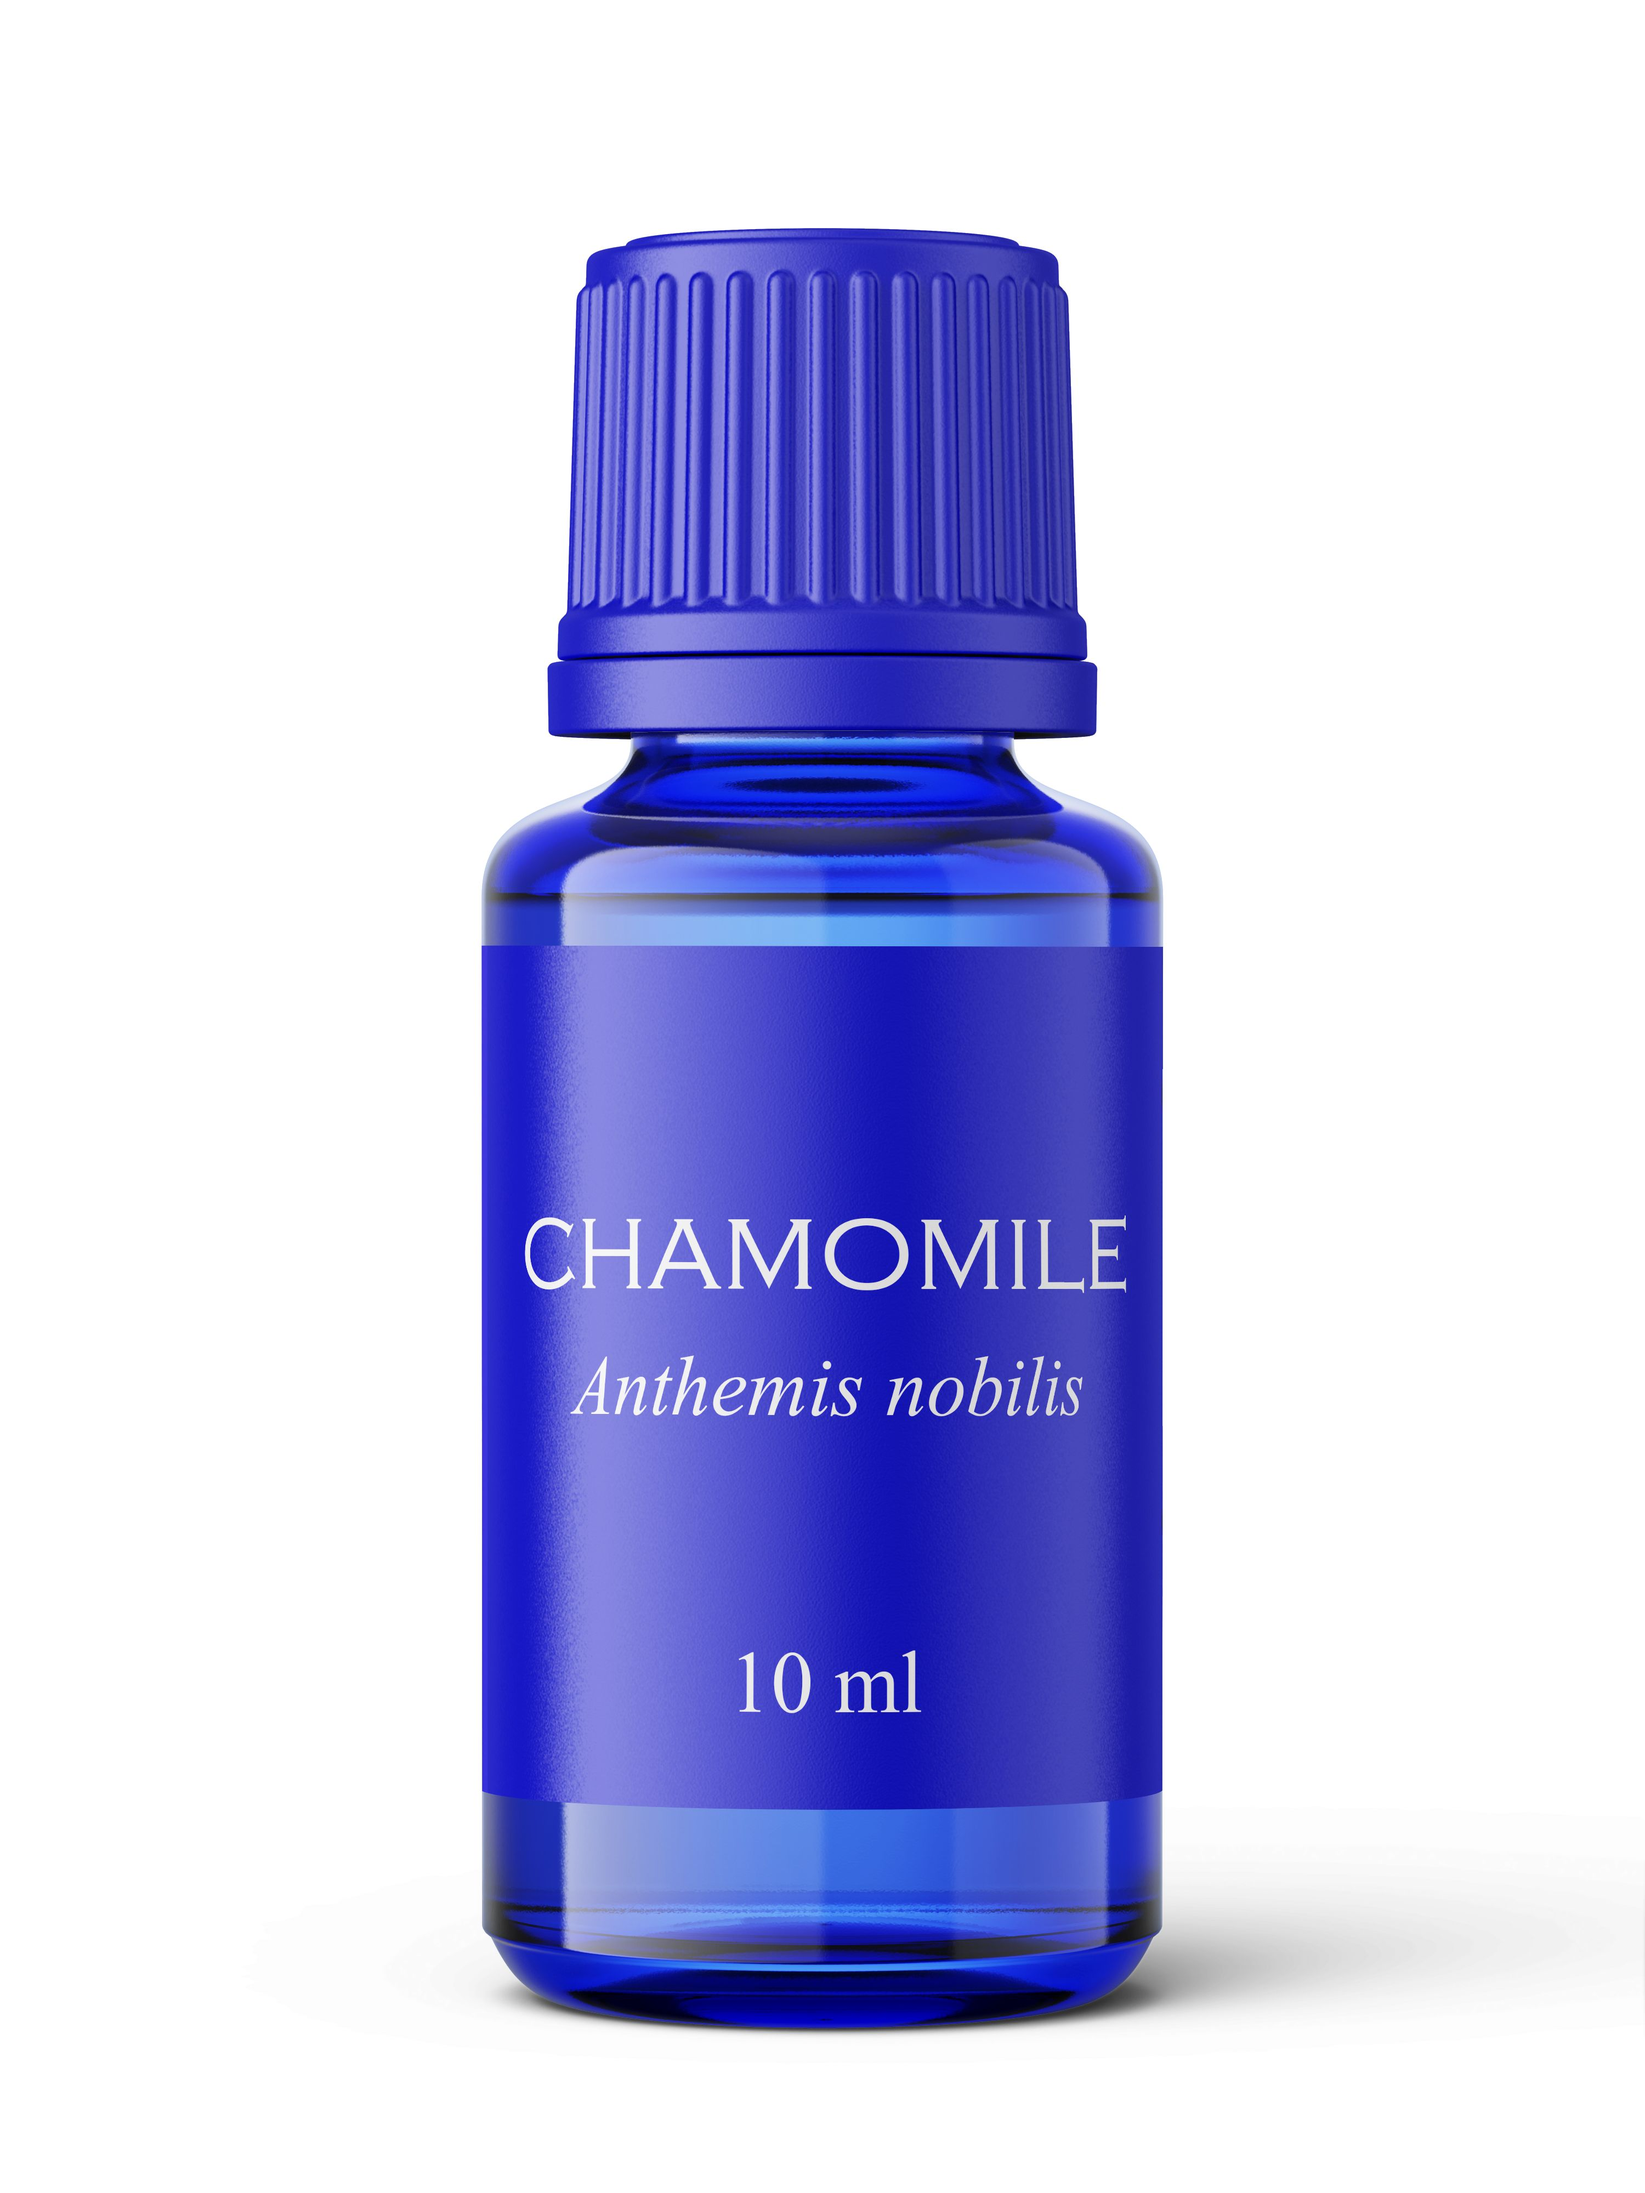
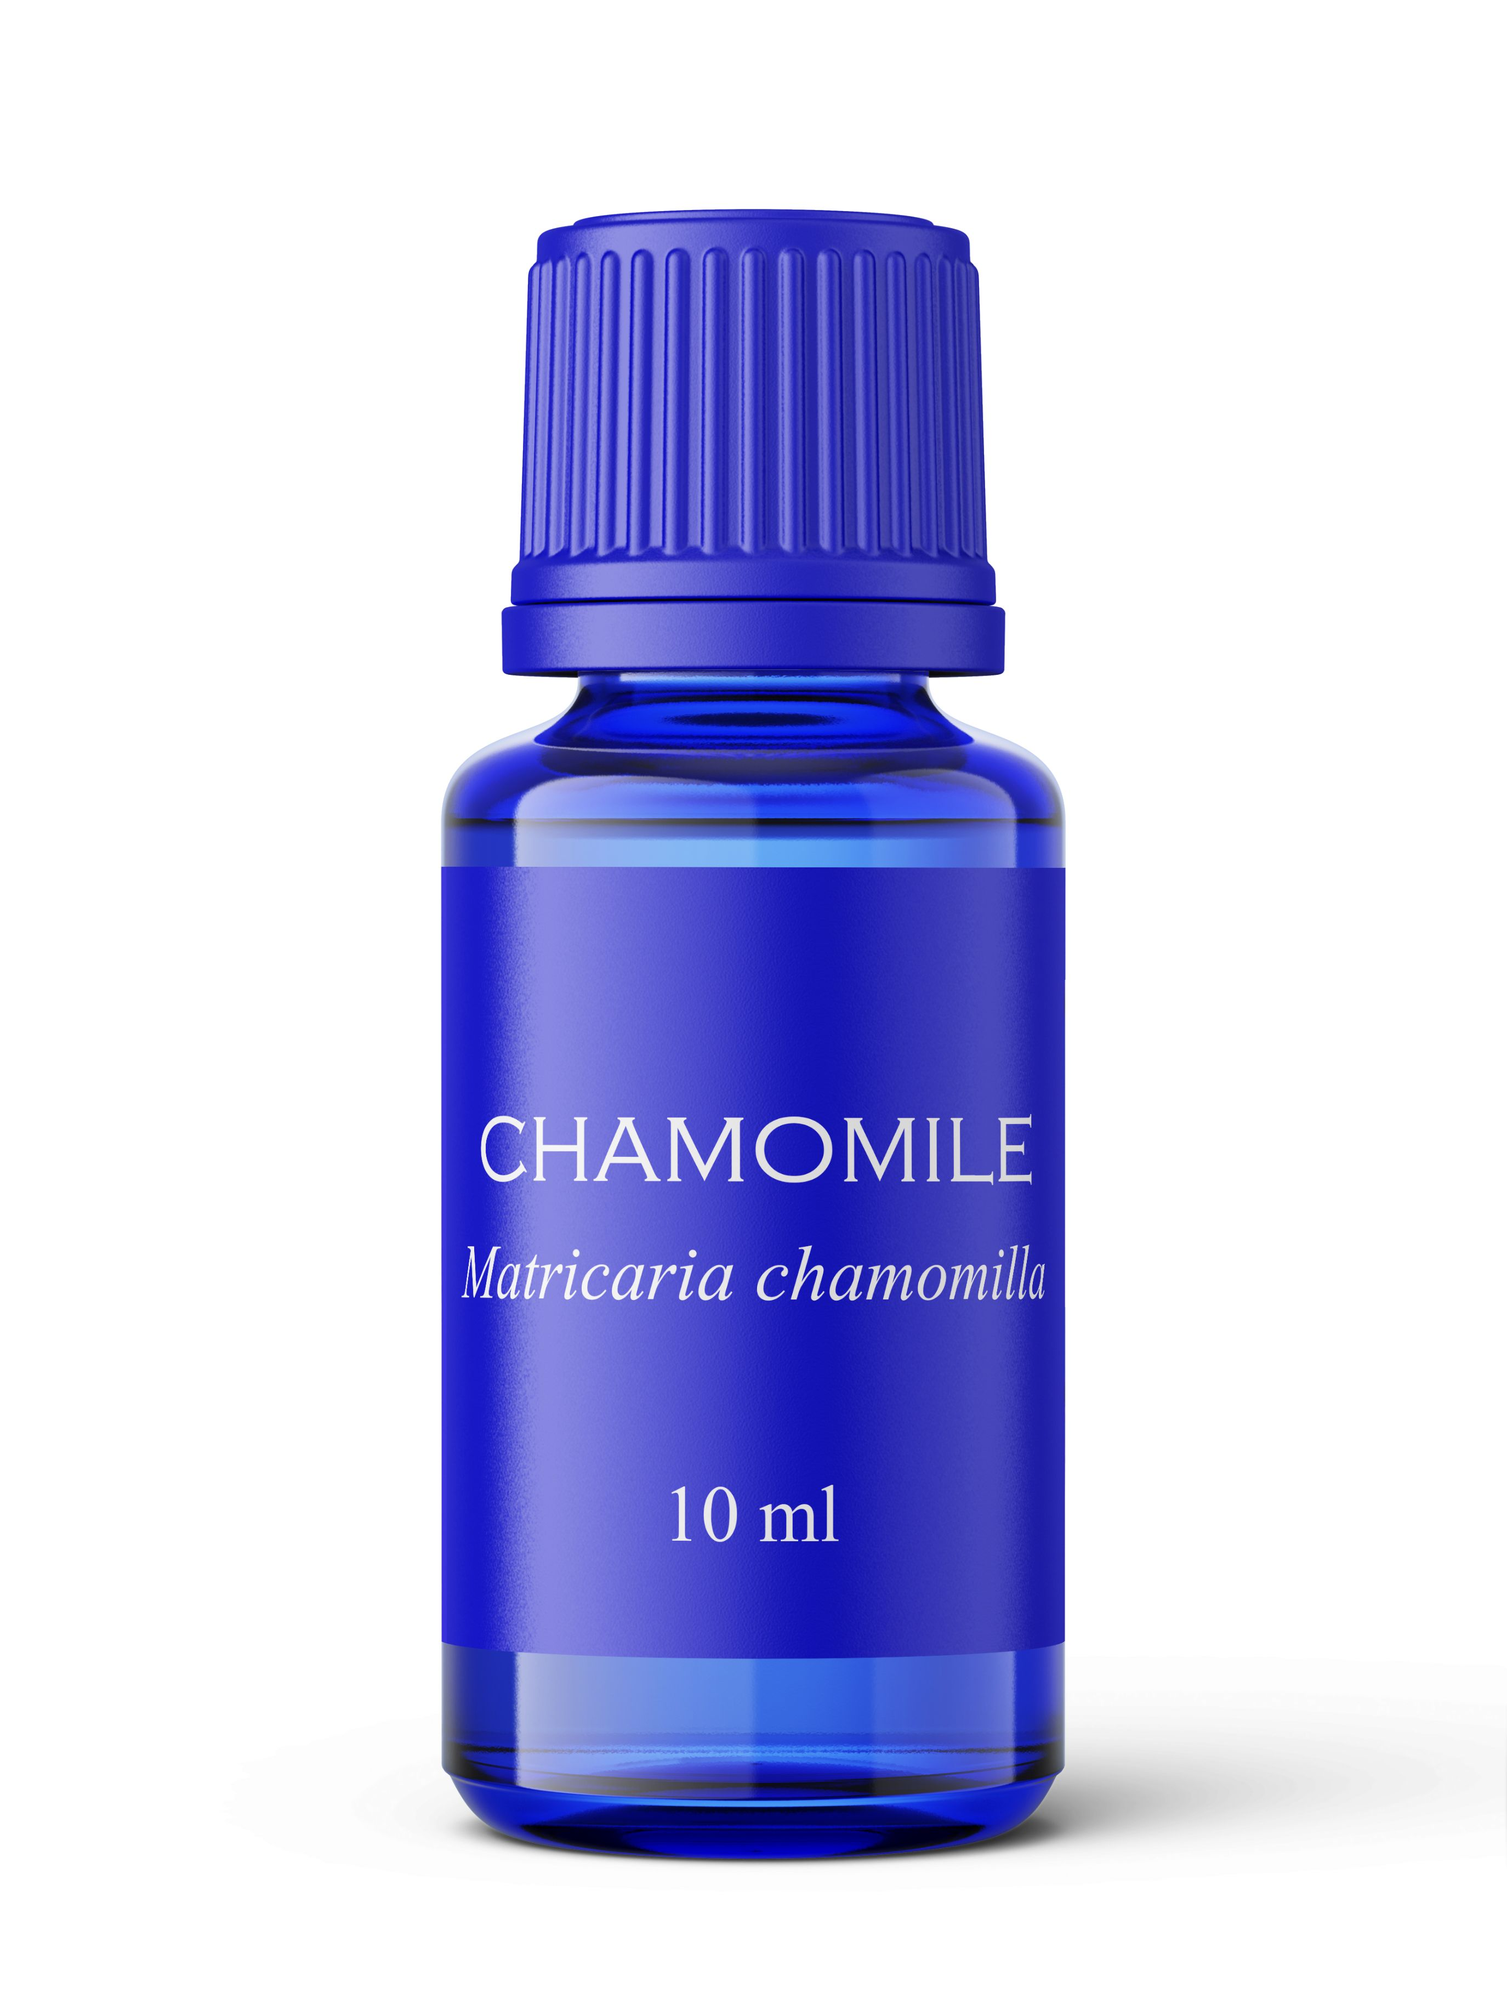
stuff

Changed region(s): [[0.3092, 0.6219, 0.7112, 0.653], [0.4329, 0.7463, 0.5566, 0.7774]]

diff --git a/airspace-hugo/layouts/_default/single.html b/airspace-hugo/layouts/_default/single.html
@@ -33,30 +33,40 @@
 					<div class="post-thumb">
 						<img class="img-responsive" src="{{ .Params.Image | relURL }}" alt="{{ .Title }}">
 					</div> -->
-					<div class="post-content post-excerpt">
-						{{ range .Params.Sections}}
-						<!-- {{ .Content }} -->
-						<div class="col-md-2">
-							<p style="margin: 0 0 10px;">{{ .key }}</p>
-						</div>
-						<div class="col-md-10">
-							{{ if .value }}
-								<p style="margin: 0 0 10px;">{{ .value }}</p>
-							{{ else if .list }}
-								<ul style="list-style: disc;">
-								{{ range .list }}
-									<li style="font-size: 14px;color:#7b7b7b">{{ .value }}</li>
-								{{ end }}
-								</ul>
-							{{ else  }}
-								<ol style="margin-left: 10px;padding-left: 0px;">
-								{{ range .olist }}
-									<li style="font-size: 14px;color:#7b7b7b">{{ .value }}</li>
-								{{ end }}
-								</ol>
+					<h4>{{.Params.Title}}</h4>
+					<div class="row">
+						<div class="post-content post-excerpt col-md-8">
+
+							{{ range .Params.Sections}}
+							<div class="row">
+								<!-- {{ .Content }} -->
+								<div class="col-md-2">
+									<p style="margin: 0 0 10px;">{{ .key }}</p>
+								</div>
+								<div class="col-md-10">
+									{{ if .value }}
+									<p style="margin: 0 0 10px;">{{ .value }}</p>
+									{{ else if .list }}
+									<ul style="list-style: disc;">
+										{{ range .list }}
+										<li style="font-size: 14px;color:#7b7b7b">{{ .value }}</li>
+										{{ end }}
+									</ul>
+									{{ else  }}
+									<ol style="margin-left: 10px;padding-left: 0px;">
+										{{ range .olist }}
+										<li style="font-size: 14px;color:#7b7b7b">{{ .value }}</li>
+										{{ end }}
+									</ol>
+									{{ end }}
+								</div>
+							</div>
 							{{ end }}
+
 						</div>
-						{{ end }}
+						<div class="col-md-4">
+							<image src="{{ .Params.Image }}" style="width:100%"></image>
+						</div>
 					</div>
 					<div class="post-comments">
 						{{ template "_internal/disqus.html" . }}

diff --git a/layouts/_default/single.html b/layouts/_default/single.html
@@ -33,30 +33,40 @@
 					<div class="post-thumb">
 						<img class="img-responsive" src="{{ .Params.Image | relURL }}" alt="{{ .Title }}">
 					</div> -->
-					<div class="post-content post-excerpt">
-						{{ range .Params.Sections}}
-						<!-- {{ .Content }} -->
-						<div class="col-md-2">
-							<p style="margin: 0 0 10px;">{{ .key }}</p>
-						</div>
-						<div class="col-md-10">
-							{{ if .value }}
-								<p style="margin: 0 0 10px;">{{ .value }}</p>
-							{{ else if .list }}
-								<ul style="list-style: disc;">
-								{{ range .list }}
-									<li style="font-size: 14px;color:#7b7b7b">{{ .value }}</li>
-								{{ end }}
-								</ul>
-							{{ else  }}
-								<ol style="margin-left: 10px;padding-left: 0px;">
-								{{ range .olist }}
-									<li style="font-size: 14px;color:#7b7b7b">{{ .value }}</li>
-								{{ end }}
-								</ol>
+					<h4>{{.Params.Title}}</h4>
+					<div class="row">
+						<div class="post-content post-excerpt col-md-8">
+
+							{{ range .Params.Sections}}
+							<div class="row">
+								<!-- {{ .Content }} -->
+								<div class="col-md-2">
+									<p style="margin: 0 0 10px;">{{ .key }}</p>
+								</div>
+								<div class="col-md-10">
+									{{ if .value }}
+									<p style="margin: 0 0 10px;">{{ .value }}</p>
+									{{ else if .list }}
+									<ul style="list-style: disc;">
+										{{ range .list }}
+										<li style="font-size: 14px;color:#7b7b7b">{{ .value }}</li>
+										{{ end }}
+									</ul>
+									{{ else  }}
+									<ol style="margin-left: 10px;padding-left: 0px;">
+										{{ range .olist }}
+										<li style="font-size: 14px;color:#7b7b7b">{{ .value }}</li>
+										{{ end }}
+									</ol>
+									{{ end }}
+								</div>
+							</div>
 							{{ end }}
+
 						</div>
-						{{ end }}
+						<div class="col-md-4">
+							<image src="{{ .Params.Image }}" style="width:100%"></image>
+						</div>
 					</div>
 					<div class="post-comments">
 						{{ template "_internal/disqus.html" . }}

diff --git a/airspace-hugo/layouts/partials/products.html b/airspace-hugo/layouts/partials/products.html
@@ -4,9 +4,9 @@
   <div class="container">
     <div class="row">
       {{ range .product_item }}
-      <div class="col-sm-6 col-md-3" style="width: 20%;" >
+      <div class="col-sm-6 col-md-3 product-item" >
         <div class="distillery-item">
-          <a href="{{.url}}"><img src="{{.image}}" style="width: {{.width}}%;height: {{.height}}%"/></a>
+          <a href="{{.url}}"><img src="{{.image}}" class="{{.class}}"/></a>
           <a href="{{.url}}"><h4 >{{ .name | markdownify }}</h4></a>
           <p style="font-style: italic;color: #666;font-family: volkhov,serif;">{{ .meta | markdownify }}<p>
           <p>{{ .content | markdownify }}</p>

diff --git a/layouts/partials/products.html b/layouts/partials/products.html
@@ -4,9 +4,9 @@
   <div class="container">
     <div class="row">
       {{ range .product_item }}
-      <div class="col-sm-6 col-md-3" style="width: 20%;" >
+      <div class="col-sm-6 col-md-3 product-item" >
         <div class="distillery-item">
-          <a href="{{.url}}"><img src="{{.image}}" style="width: {{.width}}%;height: {{.height}}%"/></a>
+          <a href="{{.url}}"><img src="{{.image}}" class="{{.class}}"/></a>
           <a href="{{.url}}"><h4 >{{ .name | markdownify }}</h4></a>
           <p style="font-style: italic;color: #666;font-family: volkhov,serif;">{{ .meta | markdownify }}<p>
           <p>{{ .content | markdownify }}</p>

diff --git a/airspace-hugo/assets/scss/templates/_service.scss b/airspace-hugo/assets/scss/templates/_service.scss
@@ -82,6 +82,40 @@
   }
 }
 
+.product-item{
+  width: 20%;
+  @media only screen and (max-width: 1024px) {
+    width: 100%;
+  }
+}
+
+.outer-product-class{
+  width: 100%;
+  height: 100%;
+  @media only screen and (max-width: 1024px) {
+    width: 80%;
+    height: 80%;
+  }
+}
+
+.inner-product-class{
+  width: 110%;
+  height: 110%;
+  @media only screen and (max-width: 1024px) {
+    width: 80%;
+    height: 80%;
+  }
+}
+
+.main-product-class{
+  width: 120%;
+  height: 120%;
+  @media only screen and (max-width: 1024px) {
+    width: 80%;
+    height: 80%;
+  }
+}
+
 .distillery-arrow {
   .block {
     padding: 50px 30px;

diff --git a/assets/scss/templates/_service.scss b/assets/scss/templates/_service.scss
@@ -82,6 +82,40 @@
   }
 }
 
+.product-item{
+  width: 20%;
+  @media only screen and (max-width: 1024px) {
+    width: 100%;
+  }
+}
+
+.outer-product-class{
+  width: 100%;
+  height: 100%;
+  @media only screen and (max-width: 1024px) {
+    width: 80%;
+    height: 80%;
+  }
+}
+
+.inner-product-class{
+  width: 110%;
+  height: 110%;
+  @media only screen and (max-width: 1024px) {
+    width: 80%;
+    height: 80%;
+  }
+}
+
+.main-product-class{
+  width: 120%;
+  height: 120%;
+  @media only screen and (max-width: 1024px) {
+    width: 80%;
+    height: 80%;
+  }
+}
+
 .distillery-arrow {
   .block {
     padding: 50px 30px;

diff --git a/airspace-hugo/exampleSite/content/english/products/chamomile.md b/airspace-hugo/exampleSite/content/english/products/chamomile.md
@@ -2,17 +2,18 @@
 title: "How To Wear Bright Shoes"
 date: 2018-09-24T11:07:10+06:00
 author: Mark Dinn
-image : "images/blog/blog-post-5.jpg"
+image : "../../images/products/chamomile.jpg"
 bg_image: "images/featue-bg.jpg"
 categories: ["Artificial Intelligence"]
 tags: ["Advice","AI"]
+title: "Chamomile"
 sections: 
     - key: "Description:"
       value: "Organic Chamomile blue is the more potent of the two varieties of chamomile, with a more powerful, herbaceous aroma. It is also known as German Chamomile."
     - key: ""
       value: ""
     - key: "Ingredient profile:"
-      value: "Chamomilla Matricaria"
+      value: "Matricaria chamomilla"
     - key: "Origin:"
       value: "Croatia"
     - key: "Extraction Method:"
@@ -66,7 +67,7 @@ draft: false
 type: "post"
 ---
 
-### Chamomilla matricaria
+### Matricaria chamomilla
 
 Description - Organic Chamomile blue is the more potent of the two varieties of chamomile, with a more powerful, herbaceous aroma. It is also known as German Chamomile.
  
@@ -79,7 +80,7 @@ Description - Organic Chamomile blue is the more potent of the two varieties of 
 * Middle perfumery note
 * Blends well with Bergamot, Frankincense, Lavender, Rose, Ylang Ylang
  
-Ingredient profile – Chamomilla Matricaria; Origin – Croatia; Extraction Method: Steam distilled; Colour: Deep blue to blueish green; Odour: Herbaceous
+Ingredient profile – Matricaria chamomilla; Origin – Croatia; Extraction Method: Steam distilled; Colour: Deep blue to blueish green; Odour: Herbaceous
  
 Indications: Seek medical advice before use if suffering from any medical conditions or allergies. Always conduct a patch test before using new product.
 Store in a cool and dry place away from sunlight.

diff --git a/exampleSite/content/english/products/chamomile.md b/exampleSite/content/english/products/chamomile.md
@@ -2,17 +2,18 @@
 title: "How To Wear Bright Shoes"
 date: 2018-09-24T11:07:10+06:00
 author: Mark Dinn
-image : "images/blog/blog-post-5.jpg"
+image : "../../images/products/chamomile.jpg"
 bg_image: "images/featue-bg.jpg"
 categories: ["Artificial Intelligence"]
 tags: ["Advice","AI"]
+title: "Chamomile"
 sections: 
     - key: "Description:"
       value: "Organic Chamomile blue is the more potent of the two varieties of chamomile, with a more powerful, herbaceous aroma. It is also known as German Chamomile."
     - key: ""
       value: ""
     - key: "Ingredient profile:"
-      value: "Chamomilla Matricaria"
+      value: "Matricaria chamomilla"
     - key: "Origin:"
       value: "Croatia"
     - key: "Extraction Method:"
@@ -66,7 +67,7 @@ draft: false
 type: "post"
 ---
 
-### Chamomilla matricaria
+### Matricaria chamomilla
 
 Description - Organic Chamomile blue is the more potent of the two varieties of chamomile, with a more powerful, herbaceous aroma. It is also known as German Chamomile.
  
@@ -79,7 +80,7 @@ Description - Organic Chamomile blue is the more potent of the two varieties of 
 * Middle perfumery note
 * Blends well with Bergamot, Frankincense, Lavender, Rose, Ylang Ylang
  
-Ingredient profile – Chamomilla Matricaria; Origin – Croatia; Extraction Method: Steam distilled; Colour: Deep blue to blueish green; Odour: Herbaceous
+Ingredient profile – Matricaria chamomilla; Origin – Croatia; Extraction Method: Steam distilled; Colour: Deep blue to blueish green; Odour: Herbaceous
  
 Indications: Seek medical advice before use if suffering from any medical conditions or allergies. Always conduct a patch test before using new product.
 Store in a cool and dry place away from sunlight.

diff --git a/airspace-hugo/exampleSite/content/english/products/myrtle.md b/airspace-hugo/exampleSite/content/english/products/myrtle.md
@@ -2,10 +2,11 @@
 title: "How To Wear Bright Shoes"
 date: 2018-09-24T11:07:10+06:00
 author: John Doe
-image : "images/blog/blog-post-4.jpg"
+image : "../../images/products/myrtus.jpg"
 bg_image: "images/featue-bg.jpg"
 categories: ["Legacy Support"]
 tags: ["Mechine","Retro"]
+title: "Myrtle"
 sections: 
     - key: "Description:"
       value: "Myrtle oil is seen as uplifting yet calming. It works well when diffused and
@@ -14,7 +15,7 @@ Eucalyptus."
     - key: ""
       value: ""
     - key: "Ingredient profile:"
-      value: "Myrtle communis organic essential oil"
+      value: "Myrtus communis organic essential oil"
     - key: "Origin:"
       value: "Croatia"
     - key: "Extraction Method:"

diff --git a/exampleSite/content/english/products/myrtle.md b/exampleSite/content/english/products/myrtle.md
@@ -2,10 +2,11 @@
 title: "How To Wear Bright Shoes"
 date: 2018-09-24T11:07:10+06:00
 author: John Doe
-image : "images/blog/blog-post-4.jpg"
+image : "../../images/products/myrtus.jpg"
 bg_image: "images/featue-bg.jpg"
 categories: ["Legacy Support"]
 tags: ["Mechine","Retro"]
+title: "Myrtle"
 sections: 
     - key: "Description:"
       value: "Myrtle oil is seen as uplifting yet calming. It works well when diffused and
@@ -14,7 +15,7 @@ Eucalyptus."
     - key: ""
       value: ""
     - key: "Ingredient profile:"
-      value: "Myrtle communis organic essential oil"
+      value: "Myrtus communis organic essential oil"
     - key: "Origin:"
       value: "Croatia"
     - key: "Extraction Method:"

diff --git a/airspace-hugo/exampleSite/content/english/products/immortelle.md b/airspace-hugo/exampleSite/content/english/products/immortelle.md
@@ -2,10 +2,11 @@
 title: "How To Wear Bright Shoes"
 date: 2018-09-24T11:07:10+06:00
 author: John Doe
-image : "images/blog/blog-post-6.jpg"
+image : "../../images/products/immortele.jpg"
 bg_image: "images/featue-bg.jpg"
 categories: ["Company News"]
 tags: ["News","Retro","AI","Company"]
+title: "Immortelle"
 sections: 
     - key: "Description:"
       value: "Organic Helichrysum essential oil has an earthy, slightly floral scent. Jam packed

diff --git a/exampleSite/content/english/products/immortelle.md b/exampleSite/content/english/products/immortelle.md
@@ -2,10 +2,11 @@
 title: "How To Wear Bright Shoes"
 date: 2018-09-24T11:07:10+06:00
 author: John Doe
-image : "images/blog/blog-post-6.jpg"
+image : "../../images/products/immortele.jpg"
 bg_image: "images/featue-bg.jpg"
 categories: ["Company News"]
 tags: ["News","Retro","AI","Company"]
+title: "Immortelle"
 sections: 
     - key: "Description:"
       value: "Organic Helichrysum essential oil has an earthy, slightly floral scent. Jam packed
